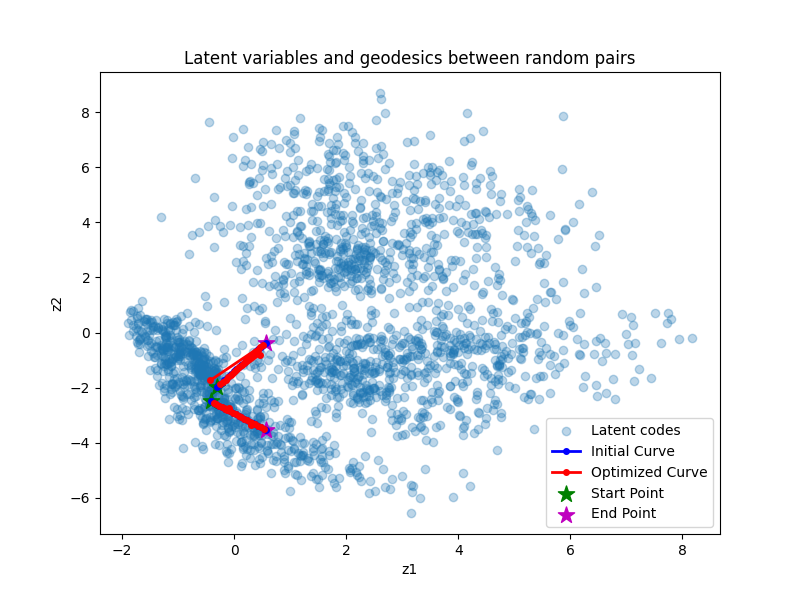
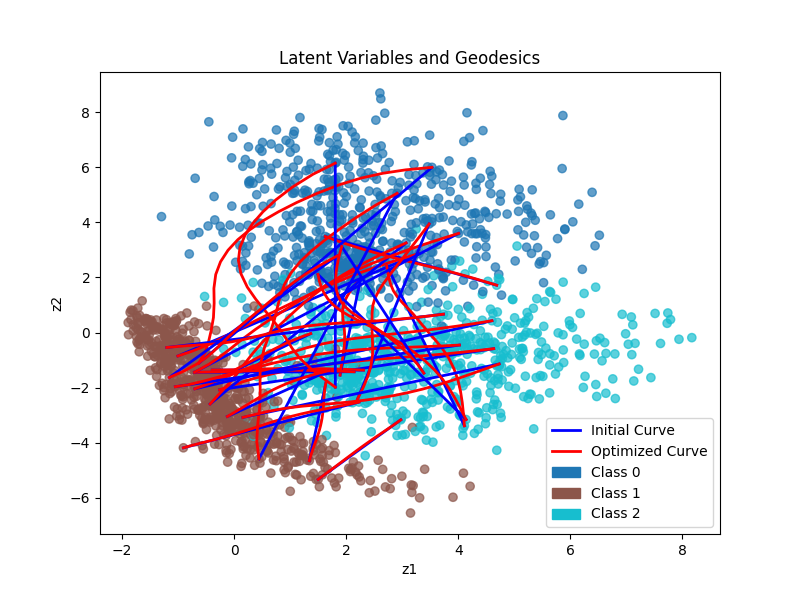
Computing geodesics

diff --git a/src/ensemble_vae.py b/src/ensemble_vae.py
@@ -18,88 +18,150 @@ import matplotlib.pyplot as plt
 import autograd.numpy as np
 from autograd import grad
 
+import matplotlib.patches as mpatches
 import matplotlib.pyplot as plt
 
-def plot_latent_geodesic(z_curve, save_path=None):
+def plot_latent_geodesics(all_latents, all_labels, geodesics, 
+                          title="Latent Variables and Geodesics", 
+                          save_path="latent_geodesics.png"):
     """
-    Plot the geodesic curve in the latent space.
+    Plots the latent variable scatter along with the initial and optimized geodesic curves,
+    and adds a legend that includes the class labels.
     
     Parameters:
-        z_curve (torch.Tensor): Tensor of shape (S+1, latent_dim) containing the geodesic points.
-        save_path (str, optional): If provided, the plot is saved to this path.
+        all_latents (Tensor): Latent codes of shape (N, latent_dim).
+        all_labels (Tensor): Labels corresponding to each latent code.
+        geodesics (list): List of tuples (initial_curve, final_curve), each with shape (S+1, latent_dim).
+        title (str): Plot title.
+        save_path (str): Where to save the figure.
     """
-    # Only plot if the latent dimension is 2.
-    if z_curve.size(1) != 2:
-        print("Latent dimension is not 2; cannot plot in 2D.")
-        return
+    import matplotlib.pyplot as plt
+    import matplotlib.patches as mpatches
     
-    # Convert to numpy for plotting.
-    z_np = z_curve.detach().cpu().numpy()
+    plt.figure(figsize=(8, 6))
+    # Plot the latent codes. (We don't assign a label here since we'll add a custom legend for classes.)
+    scatter = plt.scatter(all_latents[:, 0], all_latents[:, 1],
+                          c=all_labels, cmap='tab10', alpha=0.7)
     
-    fig, ax = plt.subplots(figsize=(8, 6))
+    # Plot each geodesic's curves.
+    for i, (initial, final) in enumerate(geodesics):
+        if i == 0:
+            plt.plot(initial[:, 0], initial[:, 1], 'b-', lw=2, markersize=4, label="Initial Curve")
+            plt.plot(final[:, 0], final[:, 1], 'r-', lw=2, markersize=4, label="Optimized Curve")
+        else:
+            plt.plot(initial[:, 0], initial[:, 1], 'b-', lw=2, markersize=4)
+            plt.plot(final[:, 0], final[:, 1], 'r-', lw=2, markersize=4)
     
-    # Plot the geodesic curve.
-    ax.plot(z_np[:, 0], z_np[:, 1], 'o-', linewidth=2, markersize=8, label='Geodesic Curve')
+    # Create custom legend handles for the classes.
+    unique_labels = sorted(torch.unique(all_labels).tolist())
+    class_handles = []
+    for label in unique_labels:
+        # Use the same colormap and normalization as in the scatter.
+        color = scatter.cmap(scatter.norm(label))
+        patch = mpatches.Patch(color=color, label=f"Class {label}")
+        class_handles.append(patch)
     
-    # Highlight the endpoints.
-    ax.scatter(z_np[0, 0], z_np[0, 1], color='green', s=100, label='Start')
-    ax.scatter(z_np[-1, 0], z_np[-1, 1], color='red', s=100, label='End')
+    # Get the existing handles from the geodesic curves.
+    handles, labels = plt.gca().get_legend_handles_labels()
+    # Append class handles.
+    handles.extend(class_handles)
+    labels.extend([f"Class {label}" for label in unique_labels])
     
-    ax.set_xlabel('Latent Dimension 1')
-    ax.set_ylabel('Latent Dimension 2')
-    ax.set_title('Geodesic in Latent Space')
-    ax.legend()
-    ax.grid(True)
+    plt.legend(handles=handles, labels=labels)
+    plt.title(title)
+    plt.xlabel("z1")
+    plt.ylabel("z2")
+    plt.savefig(save_path)
+    plt.show()
+
+def plot_curve_reconstructions(model, z_curve, title="Reconstruction", save_path=None):
+    """
+    Decode a series of latent codes along a curve and plot the reconstructed images in a row.
+
+    Parameters:
+        model: VAE model with .decoder(...) returning a distribution with a 'mean'.
+        z_curve: Tensor of shape (S+1, latent_dim).
+        title: Title of the plot.
+        save_path: Optional path to save the figure.
+    """
+    model.eval()
+    with torch.no_grad():
+        # Decode all latent codes in the curve at once.
+        decoded = model.decoder(z_curve).mean  # Expected shape: (S+1, channels, height, width)
+    decoded = decoded.cpu()
     
+    num_points = decoded.shape[0]
+    fig, axes = plt.subplots(1, num_points, figsize=(num_points * 2, 2))
+    if num_points == 1:
+        axes = [axes]
+    for i, ax in enumerate(axes):
+        # Squeeze to remove single-channel dimensions if needed.
+        img = decoded[i].squeeze()
+        ax.imshow(img, cmap="gray")
+        ax.axis("off")
+        ax.set_title(f"{i}")
+    plt.suptitle(title)
     if save_path:
         plt.savefig(save_path, dpi=300)
-    
     plt.show()
+
 
 def compute_geodesic(
     model,           # VAE model with .decoder(...) -> distribution
     z_start,         # Tensor of shape (latent_dim,)  -- endpoint A
     z_end,           # Tensor of shape (latent_dim,)  -- endpoint B
-    num_segments=20, # S: how many line segments -> total of S+1 points
-    lr=1e-2,
+    num_segments=20, # S: total segments so there are S+1 points
+    lr=0.1,
     max_iter=1000    # total LBFGS iterations
 ):
     """
-    Use direct energy minimization (eq. (8.7)) to connect z_start to z_end
-    in the data space induced by the decoder f.
+    Optimize the geodesic connecting z_start to z_end in the data space of the decoder.
+    This version optimizes only the interior points.
     
     Returns a tuple (initial_curve, final_curve) each of shape (S+1, latent_dim).
     """
-    # Create S+1 latent points and initialize linearly
-    z_vars = torch.linspace(0, 1, num_segments+1).view(-1, 1).to(z_start.device)
-    z_vars = z_start + z_vars * (z_end - z_start)
-    # Save the initial curve for comparison before making it a Parameter.
-    initial_curve = z_vars.clone().detach()
-    z_vars = torch.nn.Parameter(z_vars)
+    # Compute initial full curve via linear interpolation.
+    t_full = torch.linspace(0, 1, num_segments+1).to(z_start.device)
+    initial_curve = z_start.unsqueeze(0) * (1 - t_full).unsqueeze(1) + z_end.unsqueeze(0) * t_full.unsqueeze(1)
+    
+    # If no interior points exist, return the endpoints.
+    if num_segments < 1:
+        return initial_curve, initial_curve
+
+    # Only the interior points (exclude endpoints) will be optimized.
+    t_interior = t_full[1:-1]
+    z_interior = (z_start.unsqueeze(0) * (1 - t_interior).unsqueeze(1) +
+                  z_end.unsqueeze(0) * t_interior.unsqueeze(1))
+    z_interior = torch.nn.Parameter(z_interior)
 
     optimizer = torch.optim.LBFGS(
-        [z_vars],
+        [z_interior],
         lr=lr,
-        max_iter=max_iter, 
-        history_size=20, 
+        max_iter=max_iter,
+        history_size=20,
         line_search_fn="strong_wolfe"
     )
-
+    counter = [0]
     def closure():
         optimizer.zero_grad()
-        # Clamp endpoints
-        with torch.no_grad():
-            z_vars.data[0].copy_(z_start)
-            z_vars.data[-1].copy_(z_end)
-        decoded = model.decoder(z_vars).mean
+        counter[0] += 1
+        # Reconstruct full curve with fixed endpoints.
+        z_vars = torch.cat([z_start.unsqueeze(0), z_interior, z_end.unsqueeze(0)], dim=0)
+        # Compute energy using eq. 8.7 in the book.
+        decoded = model.decoder(z_vars).mean  # Assuming the decoder returns a distribution with a 'mean'
         diff = decoded[1:] - decoded[:-1]
-        energy = (diff**2).view(diff.size(0), -1).sum()
-        print("Current energy: {:.4f}".format(energy.item()))
+        energy = (diff ** 2).view(diff.size(0), -1).sum()
+        if counter[0] == 1:
+            print(f"Inital energy = {energy.item():.4f}")
+        if counter[0] % 10 == 0:
+            print(f"Iteration {counter[0]}: energy = {energy.item():.4f}")
         energy.backward()
         return energy
 
     optimizer.step(closure)
-    final_curve = z_vars.detach()
+
+    # Reconstruct the final curve.
+    final_curve = torch.cat([z_start.unsqueeze(0), z_interior.detach(), z_end.unsqueeze(0)], dim=0)
     return initial_curve, final_curve
 
 class GaussianPrior(nn.Module):
@@ -528,60 +590,47 @@ if __name__ == "__main__":
 
         # Encode test data to get latent representations
         all_latents = []
-        for x, _ in mnist_test_loader:
+        all_labels = []
+        for x, y in mnist_test_loader:
             x = x.to(device)
             with torch.no_grad():
                 q = model.encoder(x)
                 # Use mean of q as latent representation
                 latent = q.mean
             all_latents.append(latent)
+            all_labels.append(y)
+        all_labels = torch.cat(all_labels, dim=0).cpu()
         all_latents = torch.cat(all_latents, dim=0).cpu()
 
         # Choose 25 random pairs from encoded latent codes
-        num_pairs = 2
+        num_pairs = 25
         indices = torch.randperm(all_latents.shape[0])[:2*num_pairs].reshape(num_pairs, 2)
         geodesics = []
         latent_pairs = []
+        geodesic_indices = []
+        # Find pairs with different labels
+        while len(geodesic_indices) < num_pairs:
+            i, j = torch.randint(0, all_latents.shape[0], (2,))
+            # Use .item() if needed to compare Python ints.
+            if all_labels[i].item() != all_labels[j].item():
+                geodesic_indices.append((i, j))
+        indices = torch.tensor(geodesic_indices)
 
         # For each chosen latent pair:
-        for pair in indices:
+        for pair in tqdm(indices):
             z0, z1 = all_latents[pair[0]].to(device), all_latents[pair[1]].to(device)
             latent_pairs.append((z0.cpu().numpy(), z1.cpu().numpy()))
             initial_curve, final_curve = compute_geodesic(model, z0, z1)
             # Stack both curves into a tuple for later plotting.
             geodesics.append((initial_curve.cpu().numpy(), final_curve.cpu().numpy()))
 
-        # Plot latent variables and geodesics.
-        import matplotlib.pyplot as plt
-        plt.figure(figsize=(8, 6))
-        plt.scatter(all_latents[:, 0], all_latents[:, 1], alpha=0.3, label="Latent codes")
+        # Plot the latent variables and the geodesics.
+        plot_latent_geodesics(all_latents, all_labels, geodesics)
 
-        # Plot each geodesic's initial and final curves.
-        for i, (initial, final) in enumerate(geodesics):
-            if i == 0:
-                plt.plot(initial[:, 0], initial[:, 1], 'bo-', lw=2, markersize=4, label="Initial Curve")
-                plt.plot(final[:, 0], final[:, 1], 'ro-', lw=2, markersize=4, label="Optimized Curve")
-            else:
-                plt.plot(initial[:, 0], initial[:, 1], 'bo-', lw=2, markersize=4)
-                plt.plot(final[:, 0], final[:, 1], 'ro-', lw=2, markersize=4)
+        # Plot reconstructions from the linear (initial) interpolation.
+        plot_curve_reconstructions(model, initial_curve, title="Linear Interpolation Reconstructions", save_path="linear_interpolation_reconstructions.png")
 
-            # Plot start and end points of the geodesic with larger, distinct markers.
-            # Here we use green stars for start and magenta stars for end.
-            # Ensure we label only the first time to avoid duplicate legend entries.
-            if i == 0:
-                plt.scatter(initial[0, 0], initial[0, 1], c='g', marker='*', s=150, label="Start Point")
-                plt.scatter(initial[-1, 0], initial[-1, 1], c='m', marker='*', s=150, label="End Point")
-            else:
-                plt.scatter(initial[0, 0], initial[0, 1], c='g', marker='*', s=150)
-                plt.scatter(initial[-1, 0], initial[-1, 1], c='m', marker='*', s=150)
-
-
-        plt.title("Latent variables and geodesics between random pairs")
-        plt.xlabel("z1")
-        plt.ylabel("z2")
-        plt.legend()
-        plt.savefig("latent_geodesics.png")
-        plt.show()
-
+        # Plot reconstructions from the optimized geodesic.
+        plot_curve_reconstructions(model, final_curve, title="Optimized Geodesic Reconstructions", save_path="optimized_geodesic_reconstructions.png")
 
 
